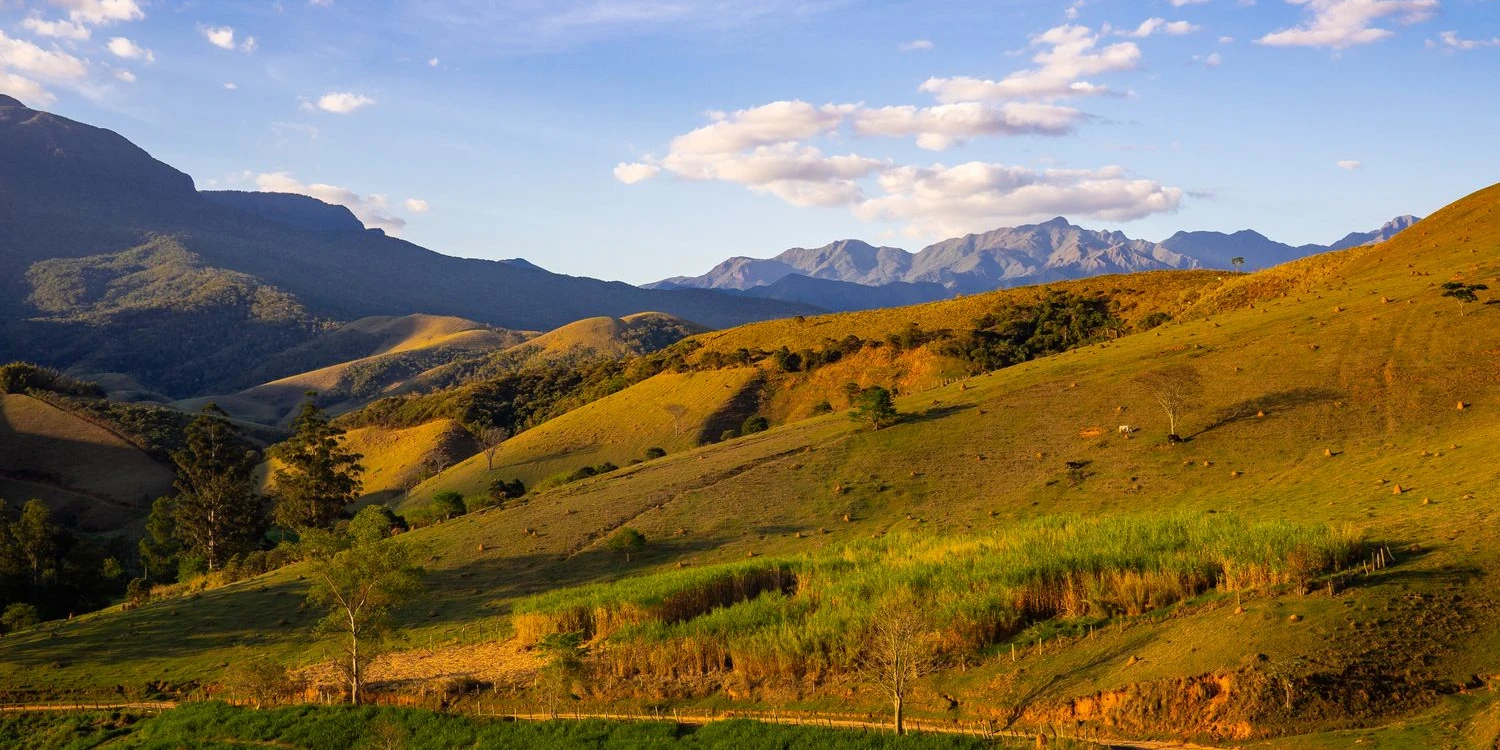
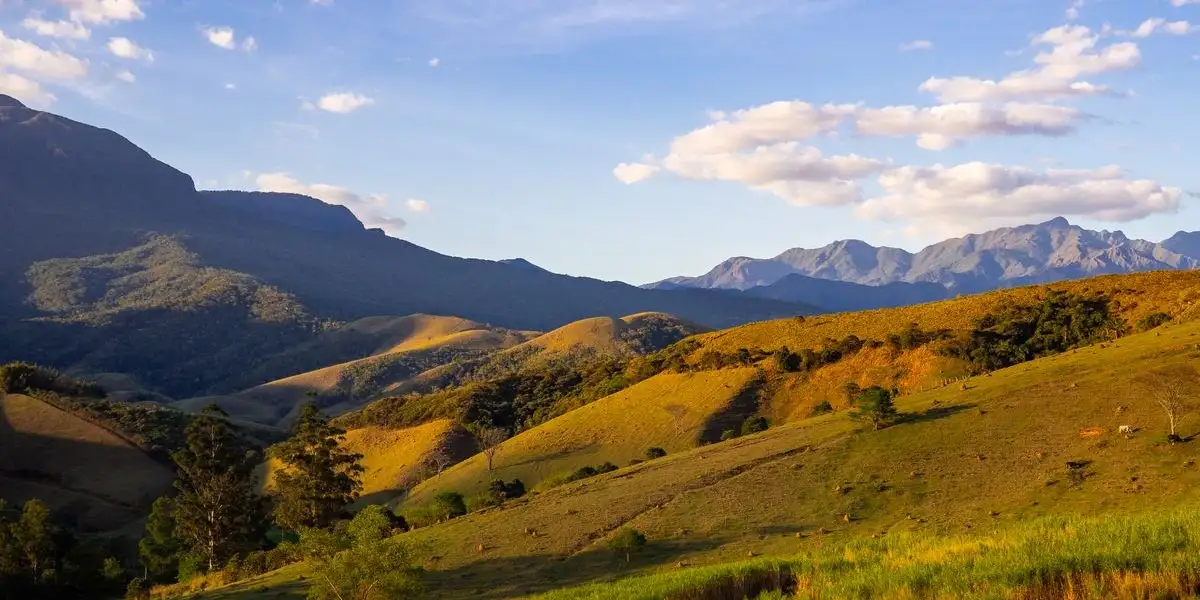
hero-large edited

diff --git a/place.html b/place.html
@@ -20,7 +20,7 @@
             <picture>
                 <source srcset="images/hero-large.webp" media="(min-width: 1000px)">
                 <source srcset="images/hero-medium.webp" media="(min-width: 500px)">
-                <img src="images/hero-small.webp" alt="Madagascar" width="500" height="250">
+                <img src="images/hero-large.webp" alt="Madagascar view" width="500" height="250">
             </picture>
         </div>
         <section class="data">
